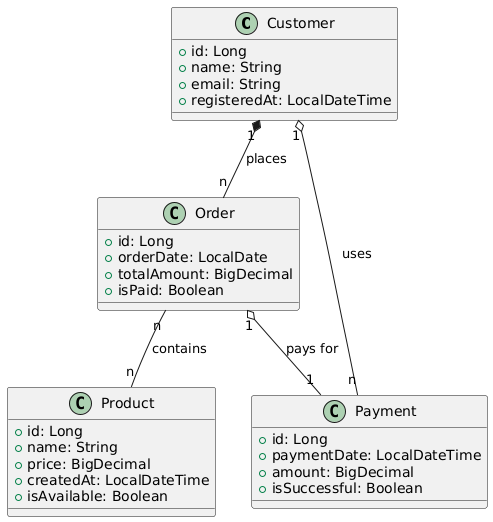
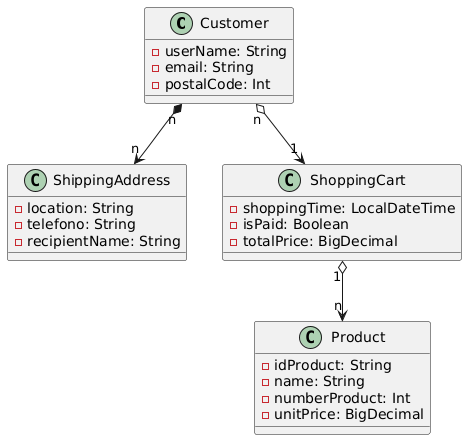
fixed model #843

diff --git a/src/main/java/es/upm/miw/apaw_practice/domain/models/E_commerce_model/Customer.java b/src/main/java/es/upm/miw/apaw_practice/domain/models/E_commerce_model/Customer.java
@@ -1,41 +1,30 @@
 package es.upm.miw.apaw_practice.domain.models.E_commerce_model;
+import es.upm.miw.apaw_practice.domain.models.art_museum.Artwork;
+import es.upm.miw.apaw_practice.domain.models.shop.ShoppingCart;
 
-import java.time.LocalDateTime;
 import java.util.List;
 
 public class Customer {
-    private Long id;
-    private String name;
+    private String userName;
     private String email;
-    private LocalDateTime registeredAt;
-    private List<Order> orders;  // Customer can have multiple orders
-    private List<Payment> payments;  // Customer can have multiple payments
+    private int postalCode;
+    private ShoppingCart shoppingCart;
+    private List<ShippingAddress> shippingAddresses;
 
-    // Constructor
-    public Customer(Long id, String name, String email, LocalDateTime registeredAt, List<Order> orders, List<Payment> payments) {
-        this.id = id;
-        this.name = name;
+    public Customer(String userName, String email, int postalCode, ShoppingCart shoppingCart) {
+        this.userName = userName;
         this.email = email;
-        this.registeredAt = registeredAt;
-        this.orders = orders;
-        this.payments = payments;
+        this.postalCode = postalCode;
+        this.shoppingCart = shoppingCart;
     }
 
-    // Getters and Setters
-    public Long getId() {
-        return id;
+    // Getter 和 Setter 方法
+    public String getUserName() {
+        return userName;
     }
 
-    public void setId(Long id) {
-        this.id = id;
-    }
-
-    public String getName() {
-        return name;
-    }
-
-    public void setName(String name) {
-        this.name = name;
+    public void setUserName(String userName) {
+        this.userName = userName;
     }
 
     public String getEmail() {
@@ -46,40 +35,37 @@ public class Customer {
         this.email = email;
     }
 
-    public LocalDateTime getRegisteredAt() {
-        return registeredAt;
+    public int getPostalCode() {
+        return postalCode;
     }
 
-    public void setRegisteredAt(LocalDateTime registeredAt) {
-        this.registeredAt = registeredAt;
+    public void setPostalCode(int postalCode) {
+        this.postalCode = postalCode;
     }
 
-    public List<Order> getOrders() {
-        return orders;
+    public ShoppingCart getShoppingCart() {
+        return shoppingCart;
     }
 
-    public void setOrders(List<Order> orders) {
-        this.orders = orders;
+    public void setShoppingCart(ShoppingCart shoppingCart) {
+        this.shoppingCart = shoppingCart;
     }
 
-    public List<Payment> getPayments() {
-        return payments;
+    public List<ShippingAddress> getShippingAddresses() {
+        return shippingAddresses;
     }
 
-    public void setPayments(List<Payment> payments) {
-        this.payments = payments;
+    public void setShippingAddresses (List<ShippingAddress> shippingAddresses) {
+        this.shippingAddresses = shippingAddresses;
     }
 
-    // Overriding toString method
     @Override
     public String toString() {
         return "Customer{" +
-                "id=" + id +
-                ", name='" + name + '\'' +
+                "userName='" + userName + '\'' +
                 ", email='" + email + '\'' +
-                ", registeredAt=" + registeredAt +
-                ", orders=" + orders +
-                ", payments=" + payments +
+                ", postalCode=" + postalCode +
+                ", shoppingCart=" + shoppingCart +
                 '}';
     }
 }

diff --git a/src/main/java/es/upm/miw/apaw_practice/domain/models/E_commerce_model/Product.java b/src/main/java/es/upm/miw/apaw_practice/domain/models/E_commerce_model/Product.java
@@ -1,31 +1,26 @@
 package es.upm.miw.apaw_practice.domain.models.E_commerce_model;
 
 import java.math.BigDecimal;
-import java.time.LocalDateTime;
 
 public class Product {
-    private Long id;
+    private String idProduct;
     private String name;
-    private BigDecimal price;
-    private LocalDateTime createdAt;
-    private Boolean isAvailable;
+    private int numberProduct;
+    private BigDecimal unitPrice;
 
-    // Constructor
-    public Product(Long id, String name, BigDecimal price, LocalDateTime createdAt, Boolean isAvailable) {
-        this.id = id;
+    public Product(String idProduct, String name, int numberProduct, BigDecimal unitPrice) {
+        this.idProduct = idProduct;
         this.name = name;
-        this.price = price;
-        this.createdAt = createdAt;
-        this.isAvailable = isAvailable;
+        this.numberProduct = numberProduct;
+        this.unitPrice = unitPrice;
     }
 
-    // Getters and Setters
-    public Long getId() {
-        return id;
+    public String getIdProduct() {
+        return idProduct;
     }
 
-    public void setId(Long id) {
-        this.id = id;
+    public void setIdProduct(String idProduct) {
+        this.idProduct = idProduct;
     }
 
     public String getName() {
@@ -36,39 +31,29 @@ public class Product {
         this.name = name;
     }
 
-    public BigDecimal getPrice() {
-        return price;
+    public int getNumberProduct() {
+        return numberProduct;
     }
 
-    public void setPrice(BigDecimal price) {
-        this.price = price;
+    public void setNumberProduct(int numberProduct) {
+        this.numberProduct = numberProduct;
     }
 
-    public LocalDateTime getCreatedAt() {
-        return createdAt;
+    public BigDecimal getUnitPrice() {
+        return unitPrice;
     }
 
-    public void setCreatedAt(LocalDateTime createdAt) {
-        this.createdAt = createdAt;
+    public void setUnitPrice(BigDecimal unitPrice) {
+        this.unitPrice = unitPrice;
     }
 
-    public Boolean getIsAvailable() {
-        return isAvailable;
-    }
-
-    public void setIsAvailable(Boolean isAvailable) {
-        this.isAvailable = isAvailable;
-    }
-
-    // Overriding toString method
     @Override
     public String toString() {
         return "Product{" +
-                "id=" + id +
+                "idProduct='" + idProduct + '\'' +
                 ", name='" + name + '\'' +
-                ", price=" + price +
-                ", createdAt=" + createdAt +
-                ", isAvailable=" + isAvailable +
+                ", numberProduct=" + numberProduct +
+                ", unitPrice=" + unitPrice +
                 '}';
     }
 }
